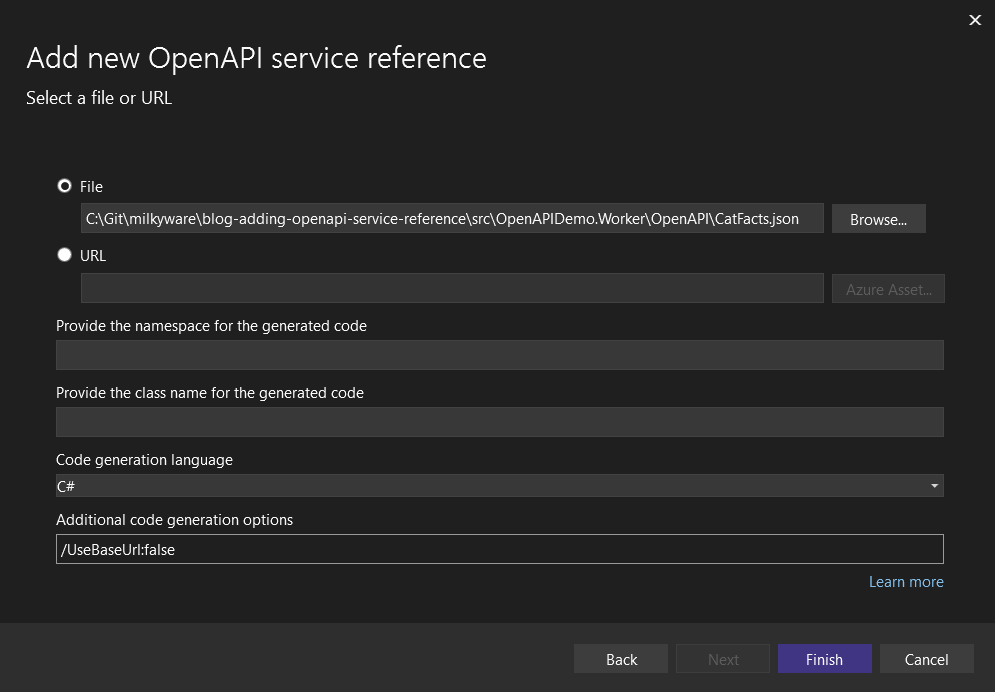
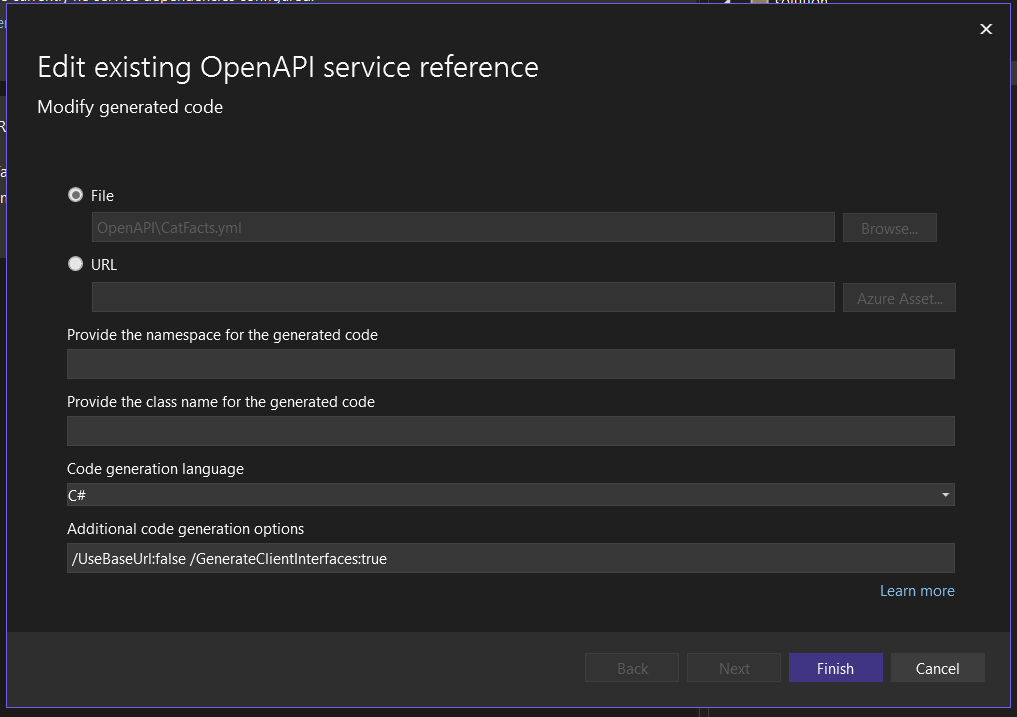
Finished draft

diff --git a/_drafts/2023-10-02-adding-openapi-service-references.md b/_drafts/2023-10-02-adding-openapi-service-references.md
@@ -1,0 +1,110 @@
+---
+title: Adding OpenAPI Service References
+header:
+  image: '/images/integrating-with-flat-files/header.svg'
+category: Integration
+---
+
+As an integration developer, one of the most common requirements I deal with is **consuming APIs** to integrate with different systems. There is still a wide variety of API types from older **SOAP** services to modern **[GraphQL](https://graphql.org/) and [gRPC](https://grpc.io/)** services. The most common style of API is use currently is **RESTful HTTP** APIs documented using **Swagger/OpenAPI documents**.
+
+## Code Sample
+
+For this post, I've prepared a **[sample solution](https://github.com/milkyware/blog-integrating-with-flat-files)** which demonstrates consuming an API as a service reference and then injecting the client into a worker service.
+
+## What is OpenAPI?
+
+As a brief history of **OpenAPI**, it began as an open-source project known as **Swagger** in 2010. This project was eventually taken over by **SmartBear** in 2015 with the **specification** of the Swagger project split out into a new open-source initiative known as **OpenAPI** backed by various tech organisations. Today, both Swagger and OpenAPI are used synonymously to refer to the documentation of RESTful APIs.
+
+**OpenAPI** is a specification for defining the functionality of a **RESTful API** including:
+
+- operations available
+- data structures schemas
+- authentication
+- versioning
+- etc
+
+All of this is to make developing and consuming these APIs easier. An OpenAPI document is the equivalent of a **[WSDL](https://www.soapui.org/docs/soap-and-wsdl/working-with-wsdls/)** for documenting the operations and data structures of a SOAP API.
+
+## Adding a Service Reference
+
+This post is focused on consuming an API using the **service references** functionality in Visual Studio to generate a **proxy client** as it is my preferred option and works great in most cases. However, there are other ways of consuming APIs such as using the **HttpClient** manually or **[RestSharp](https://restsharp.dev/)** which I use if an OpenAPI document is unavailable or if some operations are particularly complex.
+
+![image1](/images/adding-openapi-service-references/image1.gif)
+
+**Service References** are a long-standing feature of Visual Studio. Depending on the type of project, the method of managing and adding service references varies, however the above steps generally work across most project types. To manage existing references, close the **add service reference** window.
+
+![image2](/images/adding-openapi-service-references/image2.png)
+
+As part of adding a reference to an OpenAPI service, we need to point to where the definition is hosted, whether that be a URL or a local file. Although it's not demonstrated above, the class and namespace of the client can be specified to organise the autogenerated code.
+
+``` yaml
+openapi: 3.0.0
+info:
+  title: Cat Facts API
+  version: '1.0'
+servers: 
+  - url: 'https://catfact.ninja/'
+paths:
+  /breeds:
+    # OpenAPI doc continues
+```
+
+The OpenAPI specification allows for defining **[API servers and base URLs](https://swagger.io/docs/specification/api-host-and-base-path/)** to allow an API doc to not only define the functionality but also where the API is hosted. If the service reference is added with a **servers** section, the generated client will include a **BaseUrl** property which defaults to the server property instead of the **base url of the HttpClient**. If the **servers** section is missing, the constructor of the client requires the baseurl to be provided. The `/UseBaseUrl:false` argument has been added so that the **BaseAddress of the HttpClient** is used instead which I prefer as it fits better with the **Microsoft.Extensions.Http** patterns.
+
+## Injecting the Proxy Client
+
+``` cs
+IHost host = Host.CreateDefaultBuilder(args)
+    .ConfigureServices(services =>
+    {
+      // Register other services
+
+        services.AddHttpClient<ICatFactsClient, CatFactsClient>((sp, client) =>
+        {
+            var options = sp.GetRequiredService<IOptions<MyOptions>>();
+
+            client.BaseAddress = options.Value.CatFactsBaseUrl;
+        });
+    })
+```
+
+With the API client now being generated, the next step is to register the client with **dependency injection** to start making use of the client. As mentioned in **[adding a service reference](#adding-a-service-reference)** I prefer to make use of **Microsoft.Extensions.Http** due to it being a well established pattern as well many other benefits including:
+
+- Centralising the definition and naming of HttpClients for different services/OpenAPI clients
+- Automatically handling the lifetime of the HttpClient including pooling
+- Readily available **[Polly](https://thepollyproject.azurewebsites.net/)** extensions to improve resiliency
+
+``` csharp
+public class Worker : BackgroundService
+{
+    private readonly ICatFactsClient _catFactsClient;
+    private readonly ILogger<Worker> _logger;
+
+    public Worker(ILogger<Worker> logger, ICatFactsClient catFactsClient)
+    {
+        _catFactsClient = catFactsClient;
+        _logger = logger;
+    }
+
+    protected override async Task ExecuteAsync(CancellationToken stoppingToken)
+    {
+        while (!stoppingToken.IsCancellationRequested)
+        {
+            var fact = await _catFactsClient.GetRandomFactAsync(null);
+            _logger.LogInformation("Did you know {fact}", fact.Fact.ToLower());
+            await Task.Delay(10000, stoppingToken);
+        }
+    }
+}
+```
+
+The registered API client can then be injected into your own services like above. In the **sample solution** the `/GenerateClientInterfaces:true` argument has also been added so that an **interface** can be injected instead of a **concrete class** to improve unit testing by being able to mock the interface.
+
+## Sum up
+
+For this post we've walked through the steps of adding an OpenAPI service reference as well as how to consume and use that API. As mentioned, there are many other ways of consuming an API, however, this approach keeps the custom code to a minimum which also makes getting started quicker. The dependency injection of the HttpClient has also been kept standard to take full advantage of **Microsoft.Extensions.Http**. As always, I hope this has been useful.
+
+## References
+
+- [NSwagCSharp Options](https://github.com/RicoSuter/NSwag/blob/3b2caca252317f769e6b473d87c28aabfd3b3e1e/src/NSwag.Commands/Commands/CodeGeneration/OpenApiToCSharpClientCommand.cs#L49)
+- [Microsoft.Extensions.Http](https://learn.microsoft.com/en-us/dotnet/architecture/microservices/implement-resilient-applications/use-httpclientfactory-to-implement-resilient-http-requests)
